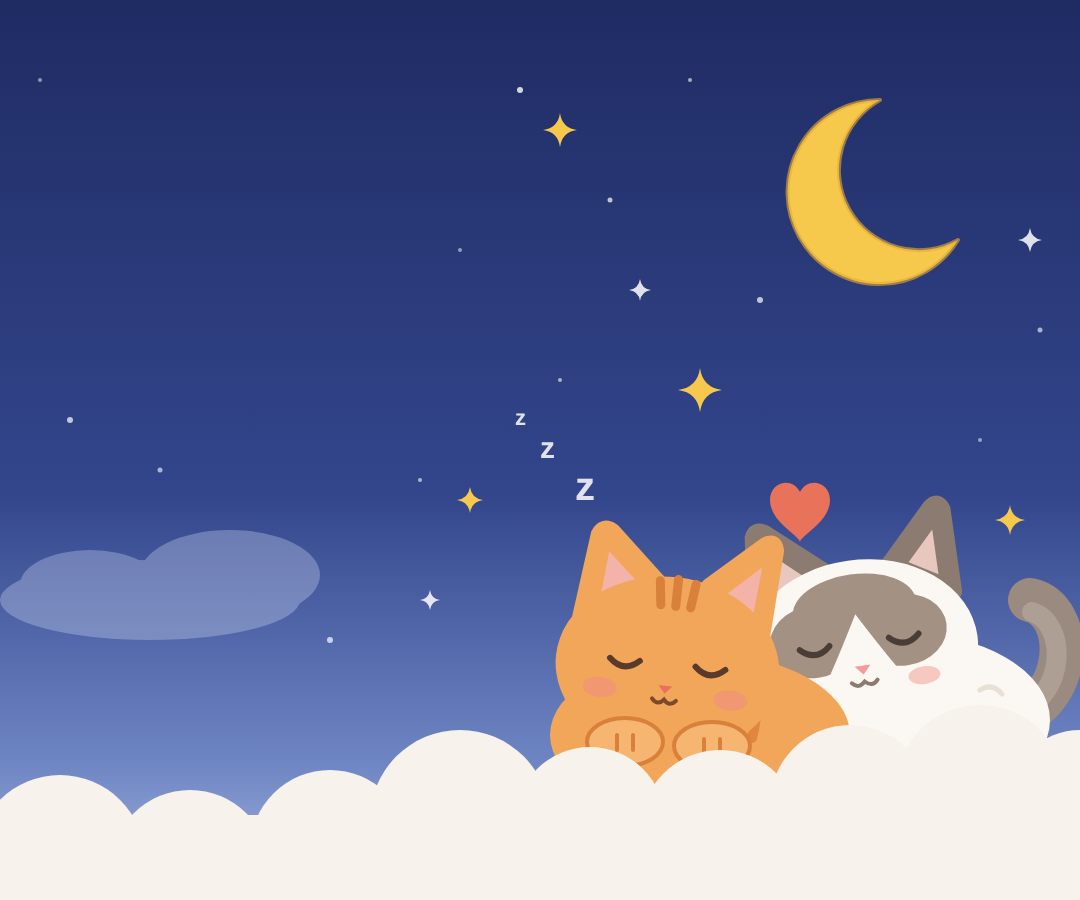
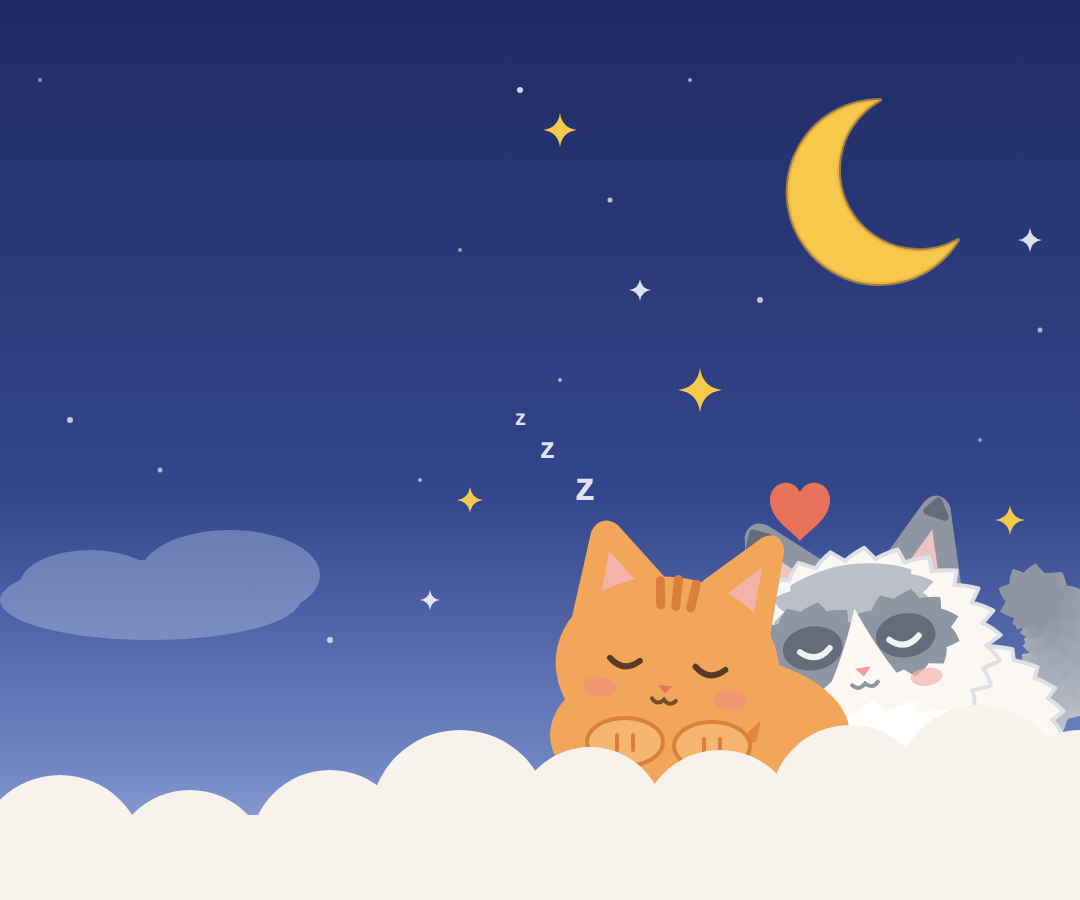
Gatito ragdoll más peludo y con manchas plomo
Melena, pechera, cuerpo, patitas y colita con mechones de pelo; antifaz,
orejas y cola en plomo en vez de gris café. También en el dibujo del
inicio (PNG y SVG editable).

Changed region(s): [[0.6722, 0.5289, 1.0, 0.8089], [0.8861, 0.7467, 0.9167, 0.7778]]

diff --git a/lib/screens/together/gatitos.dart b/lib/screens/together/gatitos.dart
@@ -12,8 +12,8 @@ import '../../models/app_user.dart';
 ///   - `assets/images/gatito_blanco.png`
 /// Mientras no existan, se dibuja un gatito provisional.
 ///
-/// El gatito blanco es tipo ragdoll: pelo blanco esponjoso y la carita,
-/// las orejas y la colita gris café.
+/// El gatito blanco es tipo ragdoll: pelo blanco muy esponjoso y la carita,
+/// las orejas y la colita en plomo.
 ///
 /// Cada persona elige al crear su cuenta (y luego en su perfil) qué gatito
 /// es; se guarda como `gatito` en `users/{uid}` con el [id].
@@ -31,7 +31,7 @@ enum Gatito {
     asset: 'assets/images/gatito_blanco.png',
     pelo: Color(0xFFFBF8F4),
     claro: Color(0xFFFFFFFF),
-    manchas: Color(0xFFA39184),
+    manchas: Color(0xFF8E95A3),
   );
 
   const Gatito({
@@ -119,6 +119,9 @@ class GatitoImagen extends StatelessWidget {
 }
 
 /// Gatito sentado de frente, con las patitas colgando hacia abajo.
+///
+/// El blanco es un ragdoll peludito: melena alrededor de la cara, pecho y
+/// colita esponjosos, y el antifaz, las orejas y la cola en plomo.
 class _GatitoProvisional extends CustomPainter {
   _GatitoProvisional(this.gatito);
   final Gatito gatito;
@@ -127,6 +130,7 @@ class _GatitoProvisional extends CustomPainter {
   void paint(Canvas canvas, Size size) {
     final s = size.width;
     final manchas = gatito.manchas;
+    if (manchas != null) return _ragdoll(canvas, s, manchas);
     final ragdoll = manchas != null;
     final pelo = Paint()..color = gatito.pelo;
     final claro = Paint()..color = gatito.claro;
@@ -343,6 +347,238 @@ class _GatitoProvisional extends CustomPainter {
           height: s * 0.045,
         ),
         ragdoll ? (Paint()..color = const Color(0xFFF2B5B0)) : claro,
+      );
+    }
+  }
+
+  /// Óvalo con mechones de pelo en punta por el borde.
+  static Path _peludo(
+    Offset c,
+    double rx,
+    double ry, {
+    int mechones = 16,
+    double largo = 0.14,
+    double giro = 0,
+  }) {
+    Offset en(double a, double f) =>
+        c + Offset(cos(a) * rx * f, sin(a) * ry * f);
+    final paso = 2 * pi / mechones;
+    final p = Path();
+    for (var i = 0; i <= mechones; i++) {
+      final a = giro + i * paso;
+      final base = en(a, 1);
+      if (i == 0) {
+        p.moveTo(base.dx, base.dy);
+        continue;
+      }
+      // Cada mechón sube curvo hasta una puntita y baja otra vez; la punta
+      // se adelanta un poco, como pelo peinado.
+      final antes = a - paso;
+      final punta = en(antes + paso * 0.62, 1 + largo);
+      final c1 = en(antes + paso * 0.2, 1 + largo * 0.45);
+      final c2 = en(antes + paso * 0.9, 1 + largo * 0.25);
+      p
+        ..quadraticBezierTo(c1.dx, c1.dy, punta.dx, punta.dy)
+        ..quadraticBezierTo(c2.dx, c2.dy, base.dx, base.dy);
+    }
+    return p..close();
+  }
+
+  void _ragdoll(Canvas canvas, double s, Color manchas) {
+    final blanco = Paint()..color = gatito.pelo;
+    final plomo = Paint()..color = manchas;
+    final plomoClaro = Paint()..color = Color.lerp(manchas, Colors.white, 0.4)!;
+    final plomoOscuro = Paint()
+      ..color = Color.lerp(manchas, const Color(0xFF2B2F3A), 0.35)!;
+    final contorno = Paint()
+      ..color = const Color(0xFFDDE0E6)
+      ..style = PaintingStyle.stroke
+      ..strokeJoin = StrokeJoin.round
+      ..strokeWidth = s * 0.008;
+    final rosita = Paint()..color = const Color(0xFFF4B3A8);
+
+    // Colita esponjosa que se oscurece hacia la punta.
+    for (var t = 0.0; t <= 1.0001; t += 0.125) {
+      final u = 1 - t;
+      final x = u * u * s * 0.3 + 2 * u * t * s * 0.0 + t * t * s * 0.11;
+      final y = u * u * s * 0.86 + 2 * u * t * s * 0.9 + t * t * s * 0.55;
+      final r = s * (0.055 + 0.04 * sin(pi * (0.25 + t * 0.6)));
+      canvas.drawPath(
+        _peludo(Offset(x, y), r, r, mechones: 8, largo: 0.35, giro: t * 3),
+        Paint()..color = Color.lerp(plomoClaro.color, plomoOscuro.color, t)!,
+      );
+    }
+
+    // Cuerpo peludo.
+    final cuerpo = _peludo(
+      Offset(s * 0.5, s * 0.74),
+      s * 0.25,
+      s * 0.19,
+      mechones: 22,
+      largo: 0.1,
+    );
+    canvas.drawPath(cuerpo, blanco);
+    canvas.drawPath(cuerpo, contorno);
+
+    // Orejas plomo con la puntita más oscura y pelito rosado adentro.
+    for (final l in [-1.0, 1.0]) {
+      final x = s * 0.5 + l * s * 0.19;
+      final oreja = Path()
+        ..moveTo(x - l * s * 0.13, s * 0.28)
+        ..lineTo(x + l * s * 0.045, s * 0.05)
+        ..lineTo(x + l * s * 0.13, s * 0.34)
+        ..close();
+      canvas.drawPath(oreja, plomo);
+      canvas.drawPath(
+        Path()
+          ..moveTo(x - l * s * 0.005, s * 0.11)
+          ..lineTo(x + l * s * 0.045, s * 0.05)
+          ..lineTo(x + l * s * 0.07, s * 0.13)
+          ..close(),
+        plomoOscuro,
+      );
+      canvas.drawPath(
+        Path()
+          ..moveTo(x - l * s * 0.05, s * 0.27)
+          ..lineTo(x + l * s * 0.035, s * 0.13)
+          ..lineTo(x + l * s * 0.08, s * 0.3)
+          ..close(),
+        Paint()..color = const Color(0xFFEBC3C3),
+      );
+    }
+
+    // Cara con melena: cachetes esponjosos que salen a los lados.
+    final centro = Offset(s * 0.5, s * 0.39);
+    final melena = _peludo(
+      centro,
+      s * 0.33,
+      s * 0.23,
+      mechones: 24,
+      largo: 0.13,
+      giro: 0.1,
+    );
+    canvas.drawPath(melena, blanco);
+    canvas.drawPath(melena, contorno);
+
+    // Pechera blanca de pelito largo bajo la barbilla.
+    canvas.drawPath(
+      _peludo(
+        Offset(s * 0.5, s * 0.6),
+        s * 0.14,
+        s * 0.07,
+        mechones: 12,
+        largo: 0.45,
+        giro: pi / 12,
+      ),
+      Paint()..color = Colors.white,
+    );
+
+    // Antifaz plomo, más oscuro alrededor de los ojitos, con el hocico
+    // blanco en forma de "V", como el ragdoll.
+    canvas.save();
+    canvas.clipPath(
+      Path()..addOval(
+        Rect.fromCenter(center: centro, width: s * 0.62, height: s * 0.46),
+      ),
+    );
+    canvas.drawPath(
+      _peludo(
+        Offset(s * 0.5, s * 0.24),
+        s * 0.2,
+        s * 0.12,
+        mechones: 12,
+        largo: 0.2,
+      ),
+      plomoClaro,
+    );
+    for (final l in [-1.0, 1.0]) {
+      final c = Offset(s * 0.5 + l * s * 0.135, s * 0.365);
+      canvas.drawPath(
+        _peludo(c, s * 0.115, s * 0.09, mechones: 11, largo: 0.22),
+        plomo,
+      );
+      canvas.drawOval(
+        Rect.fromCenter(center: c, width: s * 0.12, height: s * 0.09),
+        plomoOscuro,
+      );
+    }
+    final hocico = Path()
+      ..moveTo(s * 0.5, s * 0.26)
+      ..quadraticBezierTo(s * 0.46, s * 0.37, s * 0.41, s * 0.47)
+      ..quadraticBezierTo(s * 0.5, s * 0.55, s * 0.59, s * 0.47)
+      ..quadraticBezierTo(s * 0.54, s * 0.37, s * 0.5, s * 0.26)
+      ..close();
+    canvas.drawPath(hocico, blanco);
+    canvas.restore();
+
+    // Ojitos azules.
+    for (final l in [-1.0, 1.0]) {
+      final c = Offset(s * 0.5 + l * s * 0.135, s * 0.37);
+      canvas.drawOval(
+        Rect.fromCenter(center: c, width: s * 0.095, height: s * 0.1),
+        Paint()..color = const Color(0xFF6FA3DA),
+      );
+      canvas.drawOval(
+        Rect.fromCenter(center: c, width: s * 0.045, height: s * 0.075),
+        Paint()..color = const Color(0xFF232634),
+      );
+      canvas.drawCircle(
+        c + Offset(s * 0.014, -s * 0.02),
+        s * 0.014,
+        Paint()..color = Colors.white,
+      );
+      // Cachetitos.
+      canvas.drawOval(
+        Rect.fromCenter(
+          center: Offset(s * 0.5 + l * s * 0.2, s * 0.48),
+          width: s * 0.08,
+          height: s * 0.045,
+        ),
+        Paint()..color = rosita.color.withValues(alpha: 0.8),
+      );
+    }
+
+    // Naricita rosada y boquita.
+    canvas.drawPath(
+      Path()
+        ..moveTo(s * 0.478, s * 0.44)
+        ..lineTo(s * 0.522, s * 0.44)
+        ..lineTo(s * 0.5, s * 0.467)
+        ..close(),
+      Paint()..color = const Color(0xFFF29C9C),
+    );
+    final boca = Paint()
+      ..color = manchas
+      ..style = PaintingStyle.stroke
+      ..strokeCap = StrokeCap.round
+      ..strokeWidth = s * 0.012;
+    for (final dx in [0.475, 0.525]) {
+      canvas.drawArc(
+        Rect.fromCenter(
+          center: Offset(s * dx, s * 0.475),
+          width: s * 0.05,
+          height: s * 0.04,
+        ),
+        0,
+        pi,
+        false,
+        boca,
+      );
+    }
+
+    // Patitas peluditas con almohadillas rosadas.
+    for (final l in [-1.0, 1.0]) {
+      final c = Offset(s * 0.5 + l * s * 0.095, s * 0.93);
+      final pata = _peludo(c, s * 0.07, s * 0.055, mechones: 8, largo: 0.2);
+      canvas.drawPath(pata, blanco);
+      canvas.drawPath(pata, contorno);
+      canvas.drawOval(
+        Rect.fromCenter(
+          center: c + Offset(0, s * 0.01),
+          width: s * 0.06,
+          height: s * 0.04,
+        ),
+        Paint()..color = const Color(0xFFF2B5B0),
       );
     }
   }
